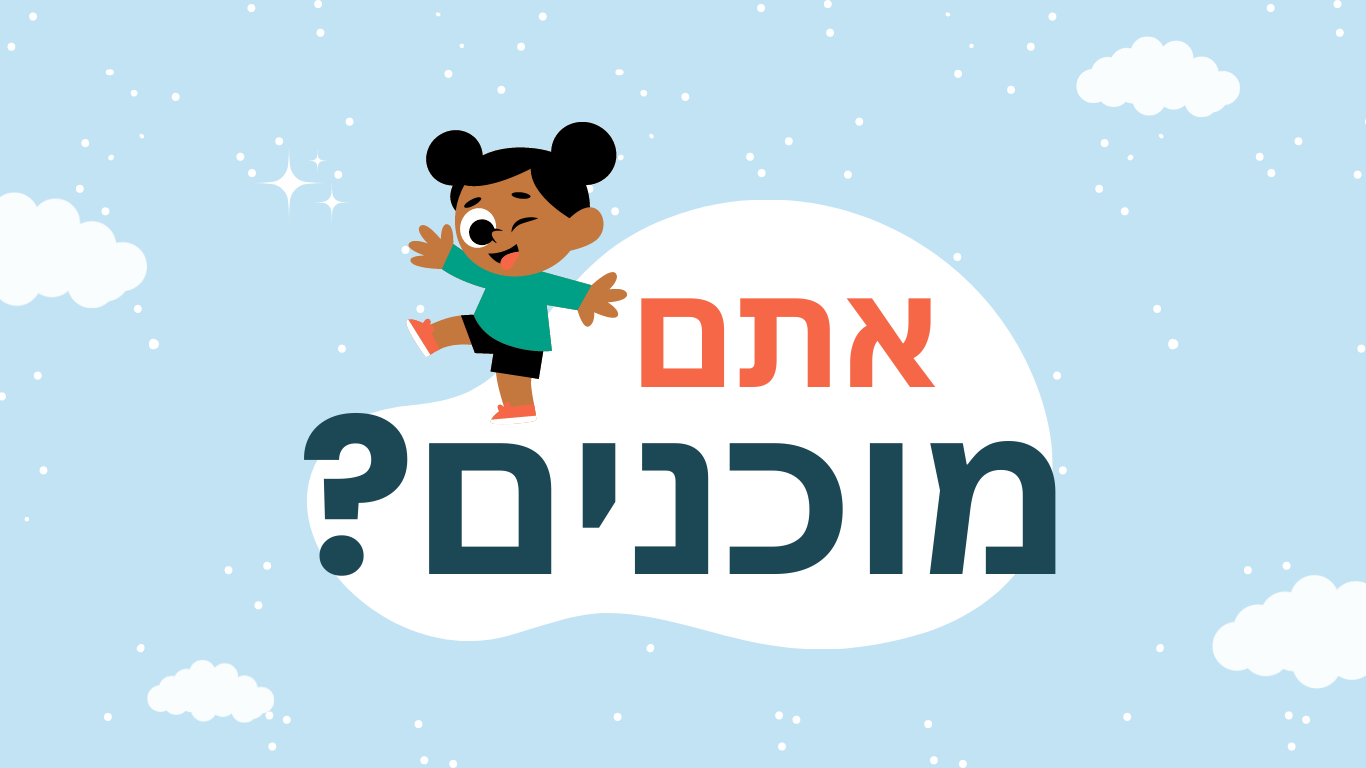
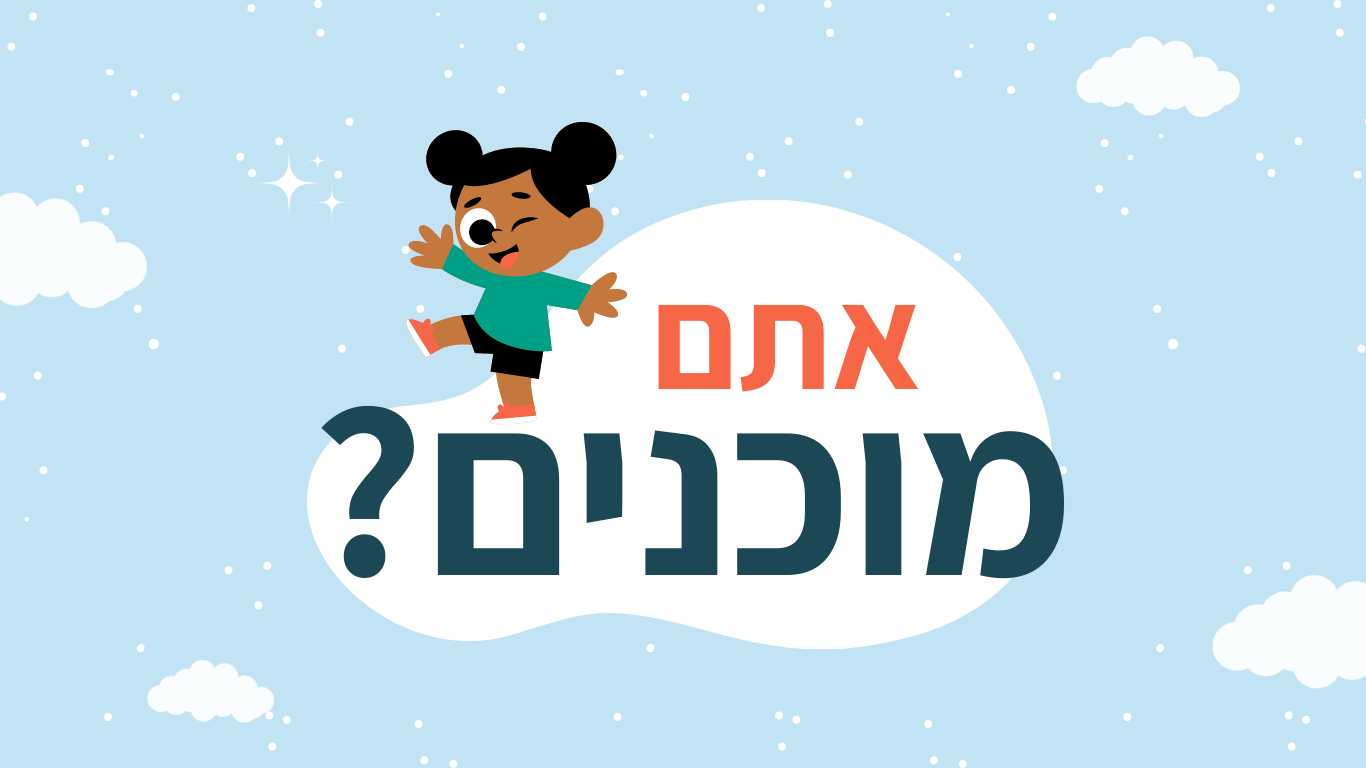
background images changed and theme.js was created

Changed region(s): [[0.2152, 0.5312, 0.7994, 0.75], [0.4612, 0.375, 0.7072, 0.5312], [0.6764, 0.6875, 0.7994, 0.75]]

diff --git a/minimal-pairs-app/src/theme.js b/minimal-pairs-app/src/theme.js
@@ -1,0 +1,43 @@
+import { createTheme } from '@mui/material/styles';
+
+const theme = createTheme({
+  palette: {
+    primary: {
+      main: '#1C4755',
+    },
+    secondary: {
+      main: '#00A087',
+    },
+    // Additional colors
+    text1: {
+      main: '#1C4755', // dark-blue-green
+    },
+    text2: {
+      main: '#00A087', // green
+    },
+    text3: {
+      main: '#EFC458', // yellow
+    },
+    text4: {
+      main: '#F66747', // red-orange
+    },
+    text5: {
+      main: '#C2E3F3', // light-blue
+    },
+    // Add white and black colors
+    common: {
+      black: '#000000',
+      white: '#FFFFFF',
+    },
+  },
+  typography: {
+    fontFamily: [
+      'Assistant bold', // First font
+      'Assistant light', // Second font
+      'Arial', // Fallback font
+      'sans-serif', // Fallback font
+    ].join(','),
+  },
+});
+
+export default theme;
